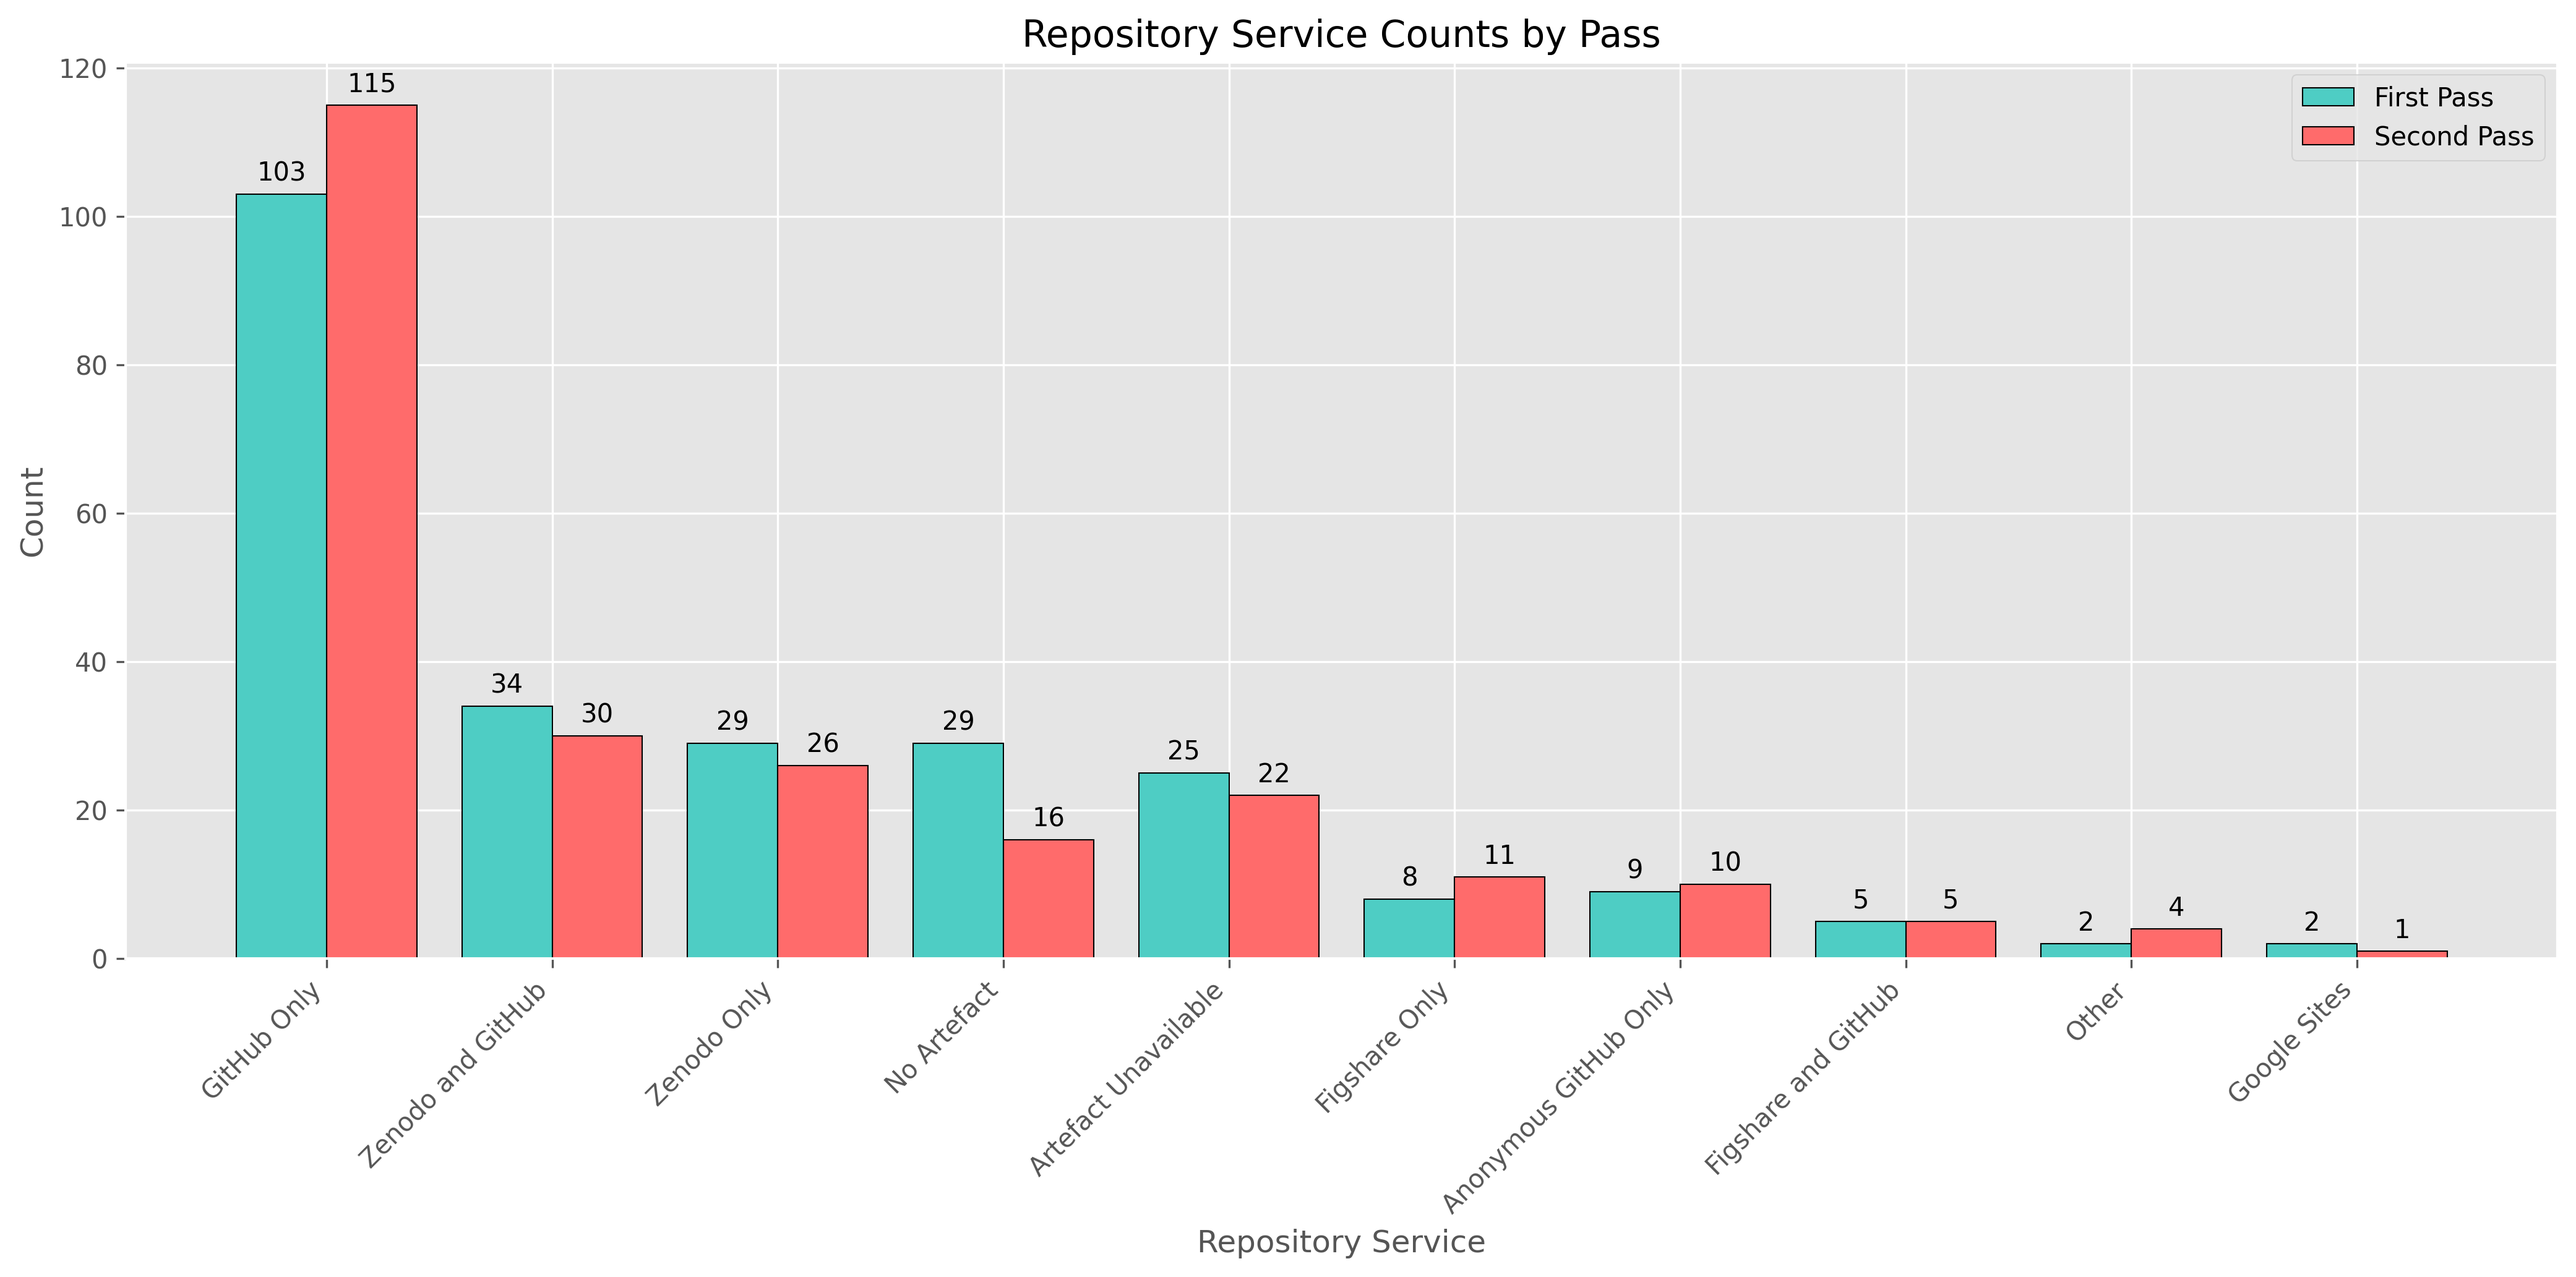
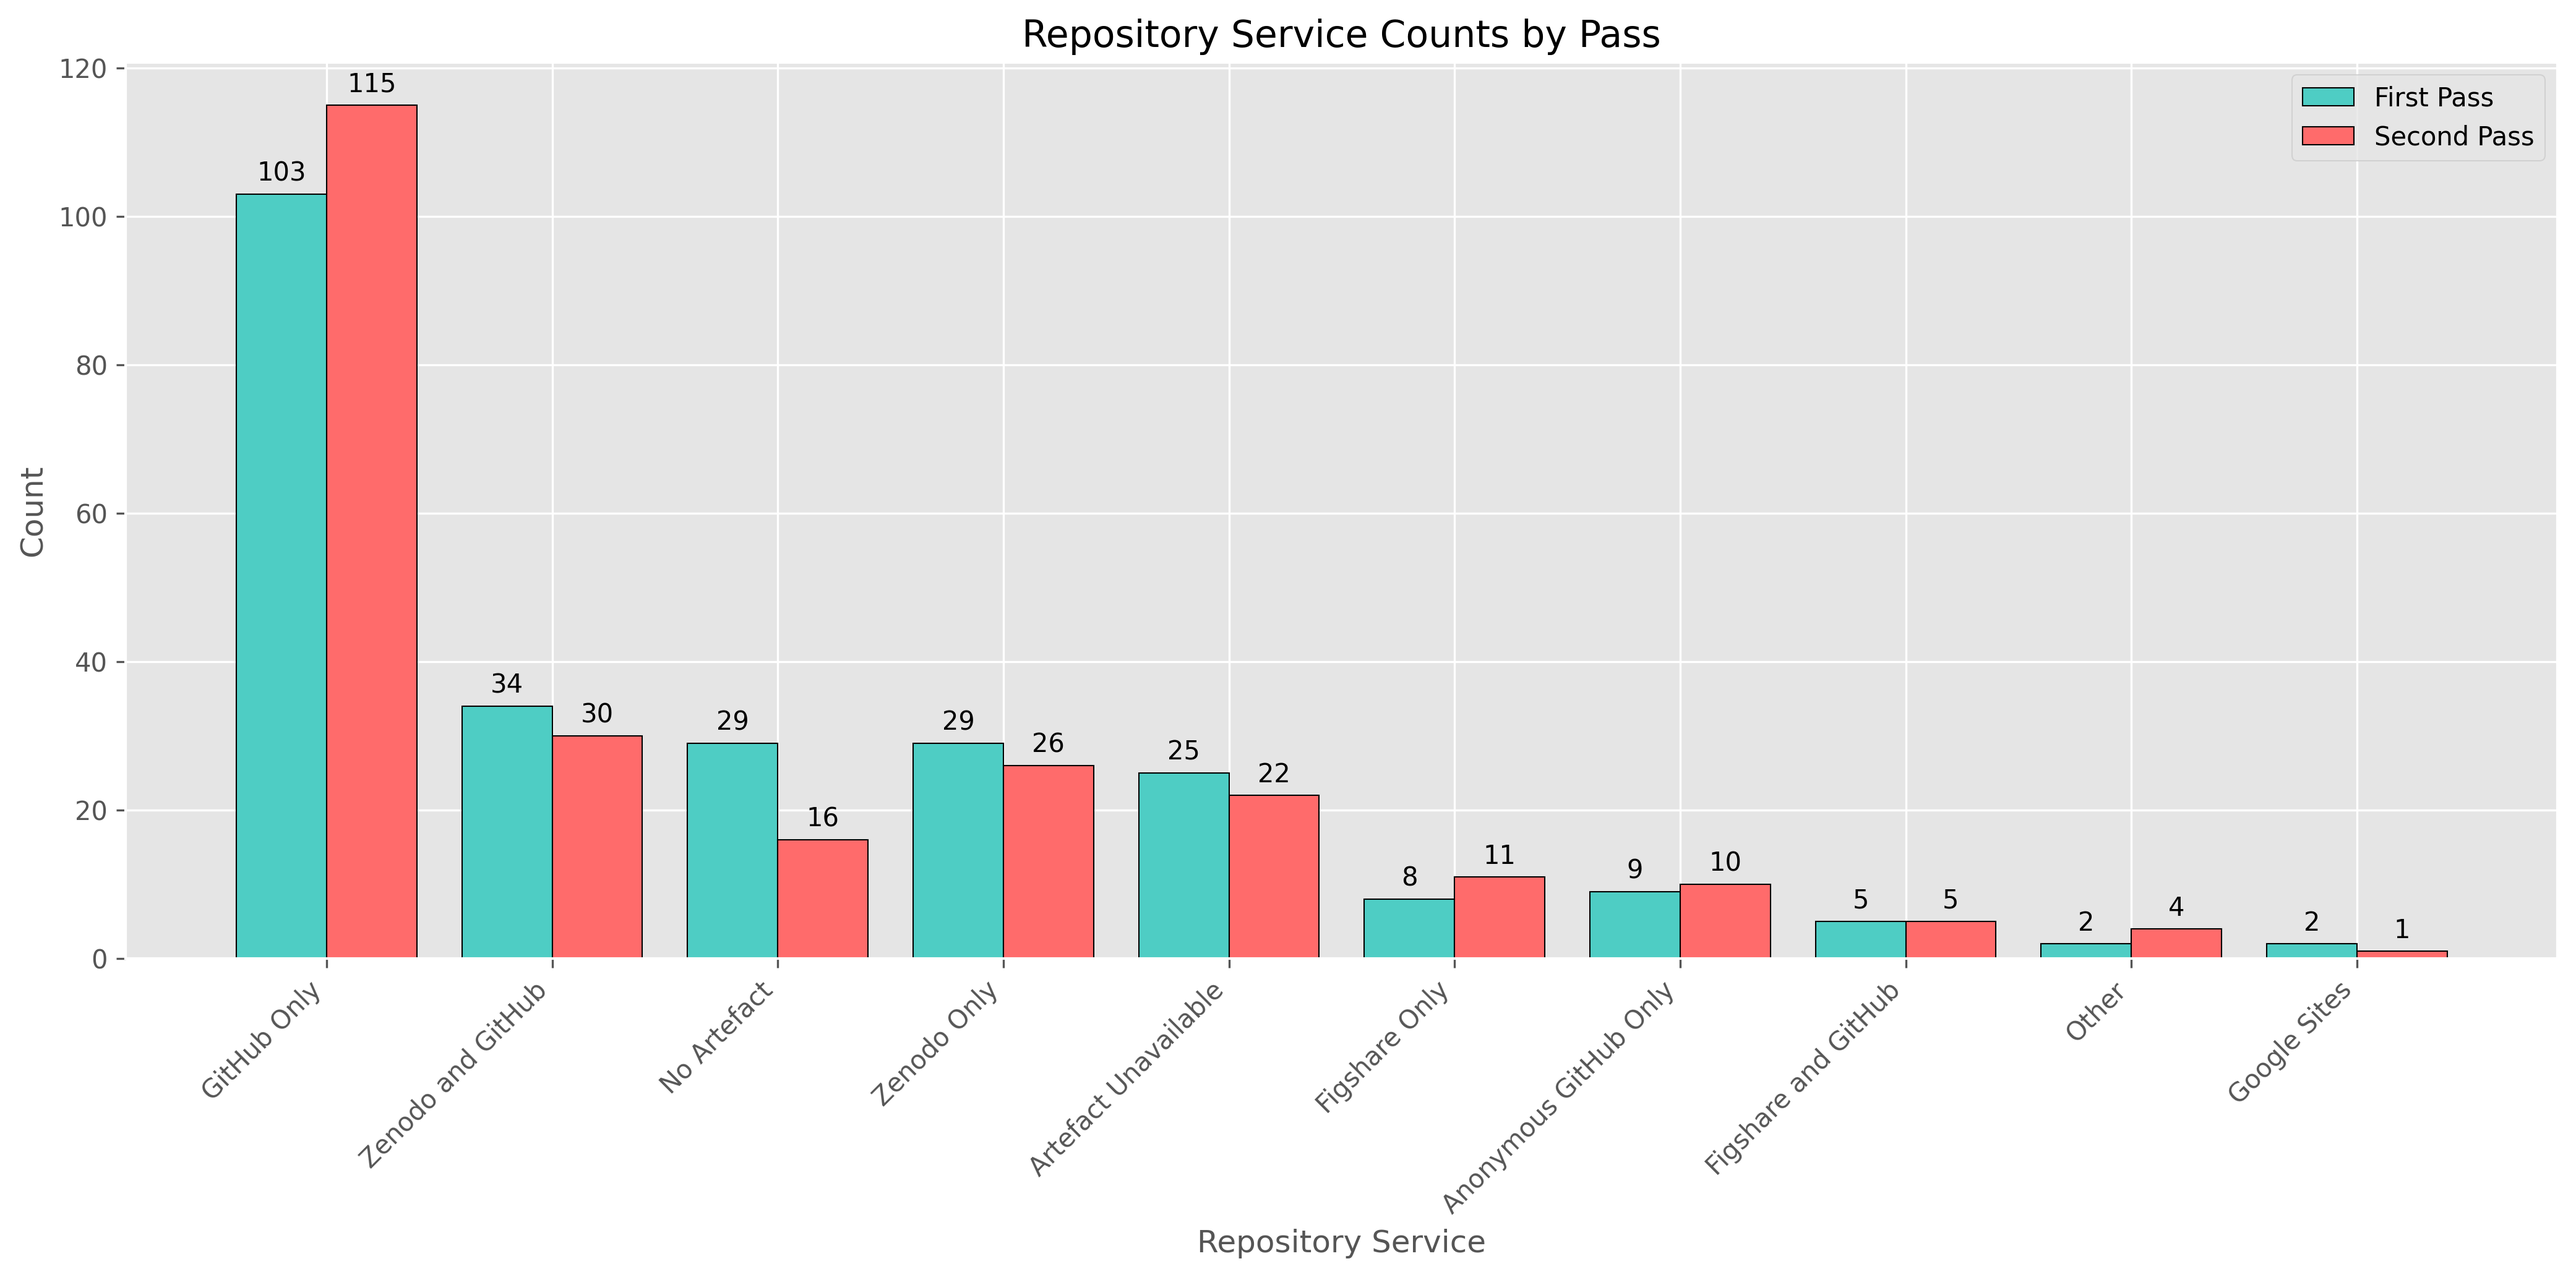
confusion matrix

diff --git a/pre_reports/pass_comparison_backend.py b/pre_reports/pass_comparison_backend.py
@@ -257,190 +257,4 @@ def summarize_disagreements(comparison_dataframe):
         .sort_values(["Differences", "FAIR Differences", PAPER_NAME_COLUMN], ascending=[False, False, True])
         .reset_index(drop=True)
     )
-    return summaryfrom pathlib import Path
-
-import pandas as pd
-
-from plotting.FAIR_compliance import FAIR_CRITERIA
-from pre_reports.pre_process import scleaned_pandas
-
-
-PROJECT_ROOT = Path(__file__).resolve().parents[1]
-DEFAULT_FIRST_PASS = PROJECT_ROOT / "results" / "FAIR Evaluation Results - First Pass Responses_fixed.csv"
-DEFAULT_SECOND_PASS = PROJECT_ROOT / "results" / "FAIR Evaluation Results - Second Pass Responses_fixed.csv"
-
-PAPER_NAME_COLUMN = "Paper Name:"
-PASS_LABELS = ("First Pass", "Second Pass")
-EXCLUDED_ALL_FIELDS = {PAPER_NAME_COLUMN, "Timestamp", "Reviewer Name"}
-FAIR_FIELDS = [criterion for criteria in FAIR_CRITERIA.values() for criterion in criteria]
-FAIR_LETTER_BY_FIELD = {
-    criterion: letter
-    for letter, criteria in FAIR_CRITERIA.items()
-    for criterion in criteria
-}
-
-
-def _normalize_scalar(value):
-    if pd.isna(value):
-        return ""
-    return str(value).strip().replace("–", "-")
-
-
-def _load_pass_dataframe(csv_path):
-    dataframe = scleaned_pandas(str(csv_path))
-    dataframe.columns = [str(column).strip() for column in dataframe.columns]
-
-    if PAPER_NAME_COLUMN not in dataframe.columns:
-        raise ValueError(f"Missing required column: {PAPER_NAME_COLUMN}")
-
-    dataframe[PAPER_NAME_COLUMN] = dataframe[PAPER_NAME_COLUMN].map(_normalize_scalar)
-    dataframe = dataframe.set_index(PAPER_NAME_COLUMN, drop=True)
-    dataframe.index.name = PAPER_NAME_COLUMN
-    return dataframe
-
-
-def load_pass_pair(first_pass_path=DEFAULT_FIRST_PASS, second_pass_path=DEFAULT_SECOND_PASS):
-    return _load_pass_dataframe(first_pass_path), _load_pass_dataframe(second_pass_path)
-
-
-def get_overlap_summary(first_pass_path=DEFAULT_FIRST_PASS, second_pass_path=DEFAULT_SECOND_PASS):
-    first_pass, second_pass = load_pass_pair(first_pass_path, second_pass_path)
-    first_titles = set(first_pass.index)
-    second_titles = set(second_pass.index)
-    matched_titles = sorted(first_titles & second_titles)
-
-    return {
-        "first_pass_papers": len(first_pass),
-        "second_pass_papers": len(second_pass),
-        "matched_papers": len(matched_titles),
-        "first_only_papers": sorted(first_titles - second_titles),
-        "second_only_papers": sorted(second_titles - first_titles),
-    }
-
-
-def get_comparison_fields(first_pass, second_pass, scope="all"):
-    scope_name = scope.lower()
-    shared_fields = [column for column in first_pass.columns if column in second_pass.columns]
-
-    if scope_name == "fair":
-        return [field for field in FAIR_FIELDS if field in shared_fields]
-    if scope_name == "all":
-        return [field for field in shared_fields if field not in EXCLUDED_ALL_FIELDS]
-
-    raise ValueError("scope must be 'all' or 'fair'")
-
-
-def _paper_exists(first_pass, second_pass, paper_name):
-    normalized_name = _normalize_scalar(paper_name)
-    missing_from = []
-
-    if normalized_name not in first_pass.index:
-        missing_from.append(PASS_LABELS[0])
-    if normalized_name not in second_pass.index:
-        missing_from.append(PASS_LABELS[1])
-
-    if missing_from:
-        raise KeyError(f"Paper '{normalized_name}' is missing from: {', '.join(missing_from)}")
-
-    return normalized_name
-
-
-def _build_comparison_rows(first_pass, second_pass, paper_name, fields, differences_only):
-    rows = []
-
-    for field in fields:
-        first_value = _normalize_scalar(first_pass.at[paper_name, field]) if field in first_pass.columns else ""
-        second_value = _normalize_scalar(second_pass.at[paper_name, field]) if field in second_pass.columns else ""
-        matches = first_value == second_value
-
-        if differences_only and matches:
-            continue
-
-        rows.append(
-            {
-                PAPER_NAME_COLUMN: paper_name,
-                "Field": field,
-                PASS_LABELS[0]: first_value,
-                PASS_LABELS[1]: second_value,
-                "Matches": matches,
-                "FAIR Letter": FAIR_LETTER_BY_FIELD.get(field, ""),
-            }
-        )
-
-    return rows
-
-
-def compare_paper_marks(
-    paper_name,
-    first_pass_path=DEFAULT_FIRST_PASS,
-    second_pass_path=DEFAULT_SECOND_PASS,
-    scope="all",
-    differences_only=True,
-):
-    first_pass, second_pass = load_pass_pair(first_pass_path, second_pass_path)
-    normalized_name = _paper_exists(first_pass, second_pass, paper_name)
-    fields = get_comparison_fields(first_pass, second_pass, scope=scope)
-
-    comparison = pd.DataFrame(
-        _build_comparison_rows(
-            first_pass=first_pass,
-            second_pass=second_pass,
-            paper_name=normalized_name,
-            fields=fields,
-            differences_only=differences_only,
-        )
-    )
-
-    if comparison.empty:
-        return pd.DataFrame(columns=[PAPER_NAME_COLUMN, "Field", *PASS_LABELS, "Matches", "FAIR Letter"])
-
-    return comparison.sort_values(["FAIR Letter", "Field"], kind="stable").reset_index(drop=True)
-
-
-def compare_all_papers(
-    first_pass_path=DEFAULT_FIRST_PASS,
-    second_pass_path=DEFAULT_SECOND_PASS,
-    scope="all",
-    differences_only=True,
-):
-    first_pass, second_pass = load_pass_pair(first_pass_path, second_pass_path)
-    matched_papers = sorted(set(first_pass.index) & set(second_pass.index))
-    fields = get_comparison_fields(first_pass, second_pass, scope=scope)
-
-    rows = []
-    for paper_name in matched_papers:
-        rows.extend(
-            _build_comparison_rows(
-                first_pass=first_pass,
-                second_pass=second_pass,
-                paper_name=paper_name,
-                fields=fields,
-                differences_only=differences_only,
-            )
-        )
-
-    comparison = pd.DataFrame(rows)
-    if comparison.empty:
-        return pd.DataFrame(columns=[PAPER_NAME_COLUMN, "Field", *PASS_LABELS, "Matches", "FAIR Letter"])
-
-    return comparison.sort_values([PAPER_NAME_COLUMN, "FAIR Letter", "Field"], kind="stable").reset_index(drop=True)
-
-
-def summarize_disagreements(comparison_dataframe):
-    if comparison_dataframe.empty:
-        return pd.DataFrame(columns=[PAPER_NAME_COLUMN, "Differences", "FAIR Differences"])
-
-    summary = (
-        comparison_dataframe.assign(
-            is_fair_field=comparison_dataframe["FAIR Letter"].ne("")
-        )
-        .groupby(PAPER_NAME_COLUMN, as_index=False)
-        .agg(
-            Differences=("Field", "count"),
-            FAIR_Differences=("is_fair_field", "sum"),
-        )
-        .rename(columns={"FAIR_Differences": "FAIR Differences"})
-        .sort_values(["Differences", "FAIR Differences", PAPER_NAME_COLUMN], ascending=[False, False, True])
-        .reset_index(drop=True)
-    )
     return summary
